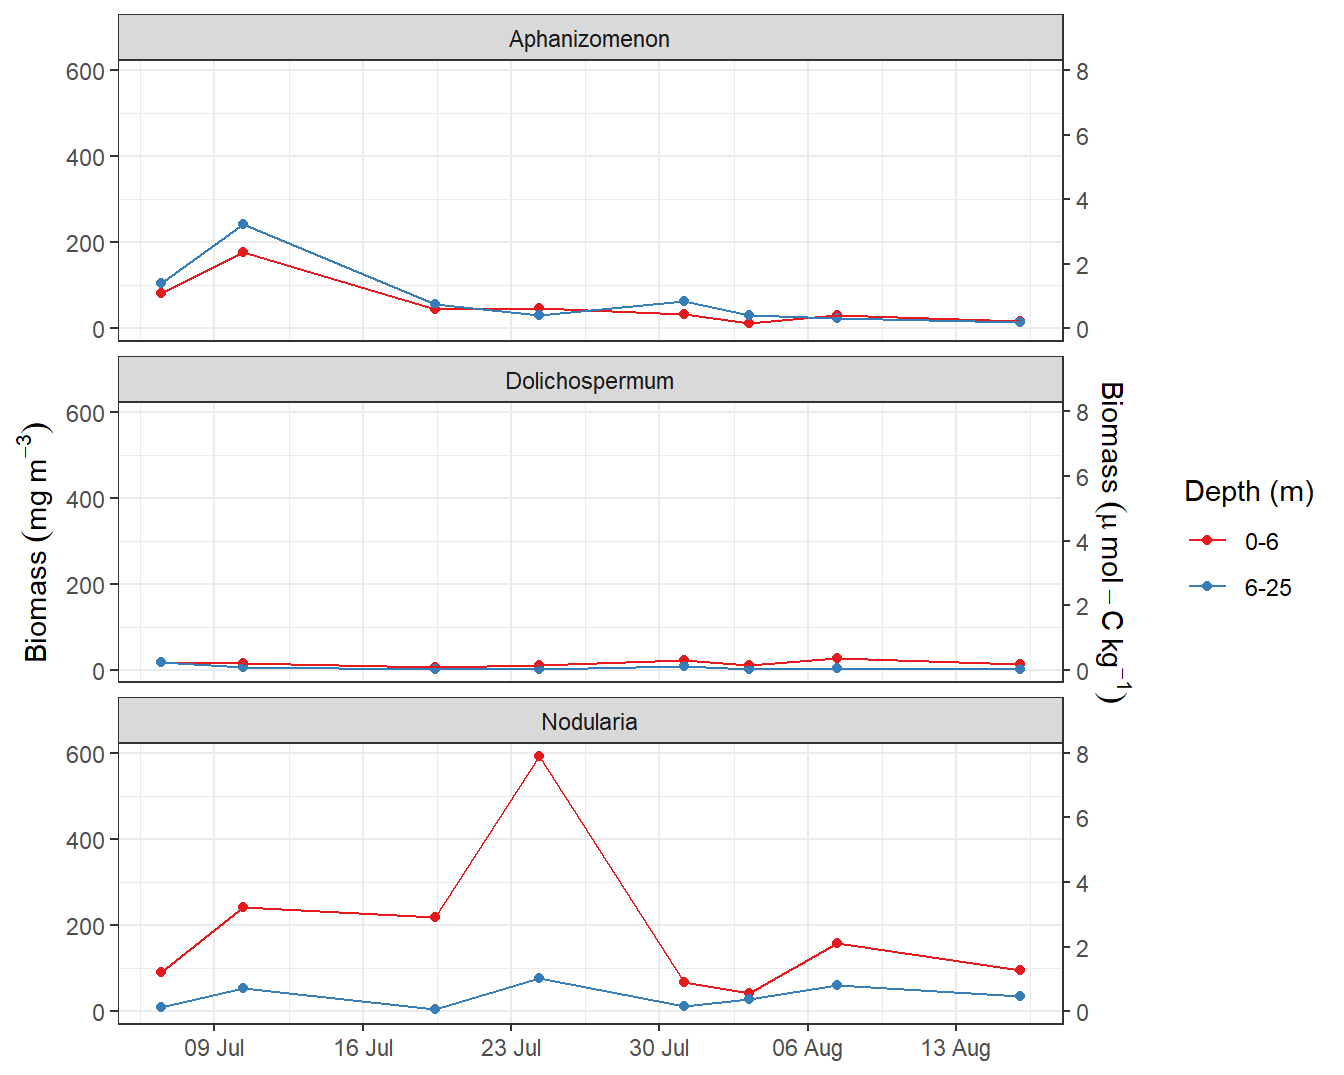
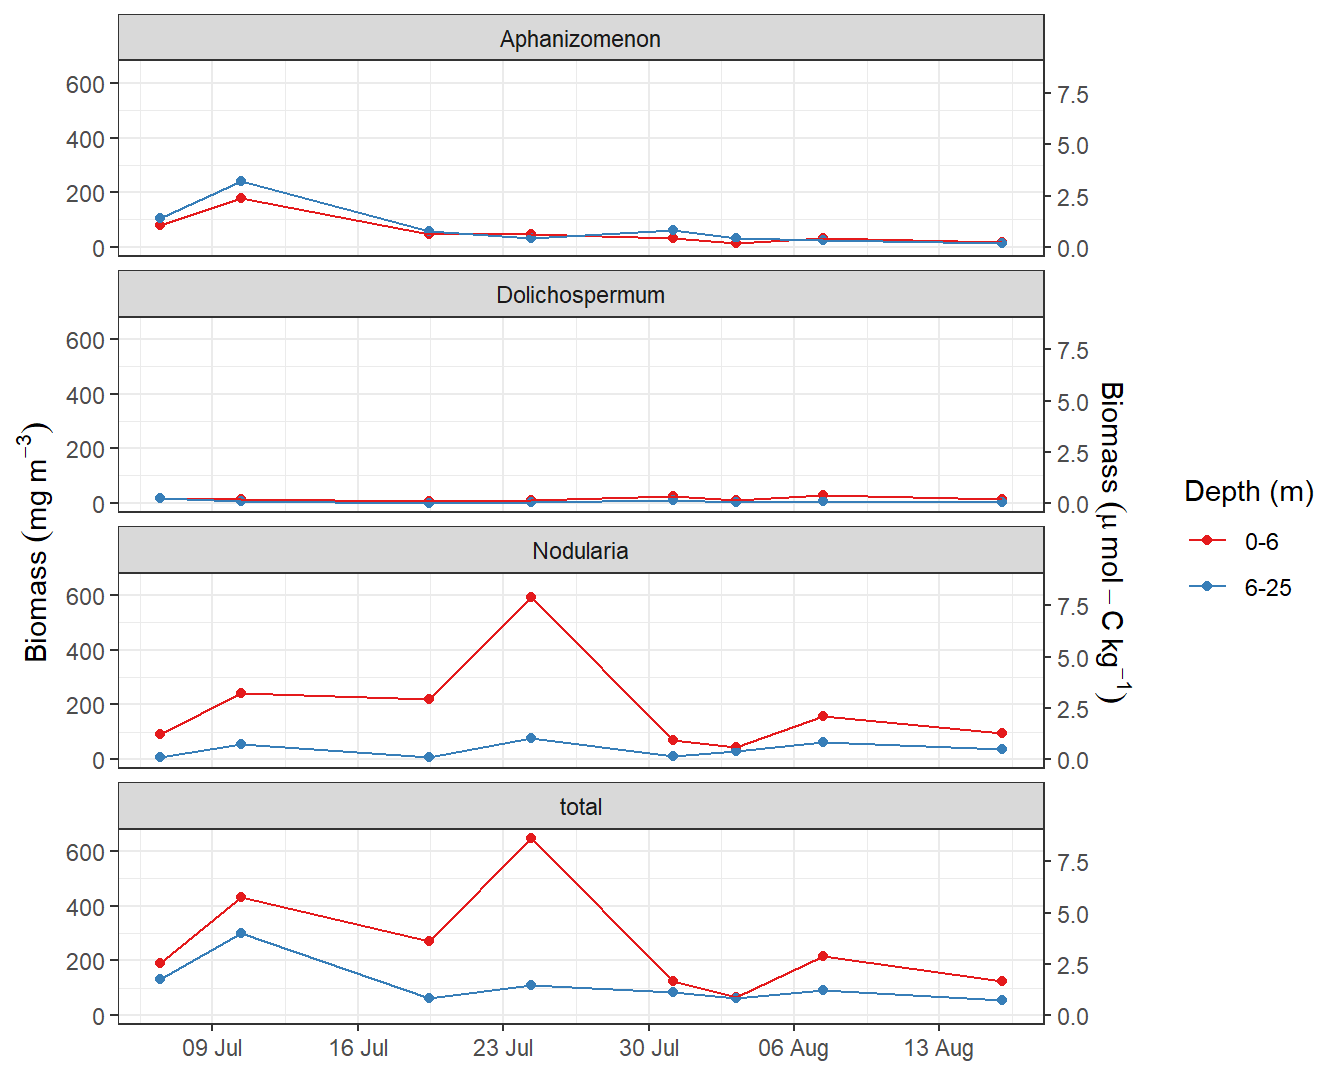
Build site.

diff --git a/docs/Phytoplankton.html b/docs/Phytoplankton.html
@@ -436,7 +436,7 @@ div.tocify {
 
 <h1 class="title toc-ignore">Phytoplankton dynamics</h1>
 <h4 class="author">Jens Daniel Müller</h4>
-<h4 class="date">24 October, 2020</h4>
+<h4 class="date">26 October, 2020</h4>
 
 </div>
 
@@ -461,7 +461,7 @@ div.tocify {
 <div class="tab-content">
 <div id="summary" class="tab-pane fade in active">
 <p>
-<strong>Last updated:</strong> 2020-10-24
+<strong>Last updated:</strong> 2020-10-26
 </p>
 <p>
 <strong>Checks:</strong> <span class="glyphicon glyphicon-ok text-success" aria-hidden="true"></span> 7 <span class="glyphicon glyphicon-exclamation-sign text-danger" aria-hidden="true"></span> 0
@@ -552,16 +552,16 @@ This reproducible <a href="http://rmarkdown.rstudio.com">R Markdown</a> analysis
 <div class="panel panel-default">
 <div class="panel-heading">
 <p class="panel-title">
-<a data-toggle="collapse" data-parent="#workflowr-checks" href="#strongRepositoryversionstrongahrefhttpsgithubcomjensdanielmuellerBloomSailtree766a349336ef1f4e8520957e9fdfba045c57ff6ftargetblank766a349a"> <span class="glyphicon glyphicon-ok text-success" aria-hidden="true"></span> <strong>Repository version:</strong> <a href="https://github.com/jens-daniel-mueller/BloomSail/tree/766a349336ef1f4e8520957e9fdfba045c57ff6f" target="_blank">766a349</a> </a>
+<a data-toggle="collapse" data-parent="#workflowr-checks" href="#strongRepositoryversionstrongahrefhttpsgithubcomjensdanielmuellerBloomSailtree1b371ec93c3fe1eae7f7b163f4f08ea224dd5df4targetblank1b371eca"> <span class="glyphicon glyphicon-ok text-success" aria-hidden="true"></span> <strong>Repository version:</strong> <a href="https://github.com/jens-daniel-mueller/BloomSail/tree/1b371ec93c3fe1eae7f7b163f4f08ea224dd5df4" target="_blank">1b371ec</a> </a>
 </p>
 </div>
[2 lines of base64/hex data omitted]
 <div class="panel-body">
 <p>
 Great! You are using Git for version control. Tracking code development and connecting the code version to the results is critical for reproducibility.
 </p>
 <p>
-The results in this page were generated with repository version <a href="https://github.com/jens-daniel-mueller/BloomSail/tree/766a349336ef1f4e8520957e9fdfba045c57ff6f" target="_blank">766a349</a>. See the <em>Past versions</em> tab to see a history of the changes made to the R Markdown and HTML files.
+The results in this page were generated with repository version <a href="https://github.com/jens-daniel-mueller/BloomSail/tree/1b371ec93c3fe1eae7f7b163f4f08ea224dd5df4" target="_blank">1b371ec</a>. See the <em>Past versions</em> tab to see a history of the changes made to the R Markdown and HTML files.
 </p>
 <p>
 Note that you need to be careful to ensure that all relevant files for the analysis have been committed to Git prior to generating the results (you can use <code>wflow_publish</code> or <code>wflow_git_commit</code>). workflowr only checks the R Markdown file, but you know if there are other scripts or data files that it depends on. Below is the status of the Git repository when the results were generated:
@@ -578,19 +578,6 @@ Ignored files:
 Untracked files:
     Untracked:  output/Plots/Figures_publication/Appendix/nCT_sensitivity_to_AT.pdf
     Untracked:  output/Plots/Figures_publication/Appendix/nCT_sensitivity_to_AT.png
-
-Unstaged changes:
-    Modified:   output/Plots/Figures_publication/Appendix/Phytoplankton_mean_total_biomass.pdf
-    Modified:   output/Plots/Figures_publication/Appendix/Phytoplankton_mean_total_biomass.png
-    Modified:   output/Plots/Figures_publication/Appendix/TPD_CPD_cumulative.pdf
-    Modified:   output/Plots/Figures_publication/Appendix/tb_profiles.pdf
-    Modified:   output/Plots/Figures_publication/Article/Hov_abs_profiles_cum.pdf
-    Modified:   output/Plots/Figures_publication/Article/atm_water_timeseries.pdf
-    Modified:   output/Plots/Figures_publication/Article/data_coverage.pdf
-    Modified:   output/Plots/Figures_publication/Article/profiles_all.pdf
-    Modified:   output/Plots/Figures_publication/Article/reconstruction_NCP_timeseries.pdf
-    Modified:   output/Plots/Figures_publication/Article/reconstruction_iCT_timeseries.pdf
-    Modified:   output/Plots/Figures_publication/Article/station_map.pdf
 
 </code></pre>
 <p>
@@ -629,6 +616,40 @@ Message
 </tr>
 </thead>
 <tbody>
+<tr>
+<td>
+Rmd
+</td>
+<td>
+<a href="https://github.com/jens-daniel-mueller/BloomSail/blob/1b371ec93c3fe1eae7f7b163f4f08ea224dd5df4/analysis/Phytoplankton.Rmd" target="_blank">1b371ec</a>
+</td>
+<td>
+jens-daniel-mueller
+</td>
+<td>
+2020-10-26
+</td>
+<td>
+included total biomass
+</td>
+</tr>
+<tr>
+<td>
+html
+</td>
+<td>
+<a href="https://rawcdn.githack.com/jens-daniel-mueller/BloomSail/9a3f42a850f89b69d48ccdbb71e801cf70fa5ec9/docs/Phytoplankton.html" target="_blank">9a3f42a</a>
+</td>
+<td>
+jens-daniel-mueller
+</td>
+<td>
+2020-10-24
+</td>
+<td>
+Build site.
+</td>
+</tr>
 <tr>
 <td>
 Rmd
@@ -1092,7 +1113,7 @@ tp_ID_grid &lt;- tp %&gt;%
 tp_ID_grid &lt;- full_join(cruise_dates, tp_ID_grid)</code></pre>
 <pre class="r"><code>tp_ID_grid &lt;- tp_ID_grid</code></pre>
 <pre class="r"><code>tp_ID_grid %&gt;%
-  filter(Species != &quot;total&quot;) %&gt;%
+  #filter(Species != &quot;total&quot;) %&gt;%
   ggplot(aes(date_time_ID, value, col = dep_grid)) +
   geom_point() +
   geom_line() +
